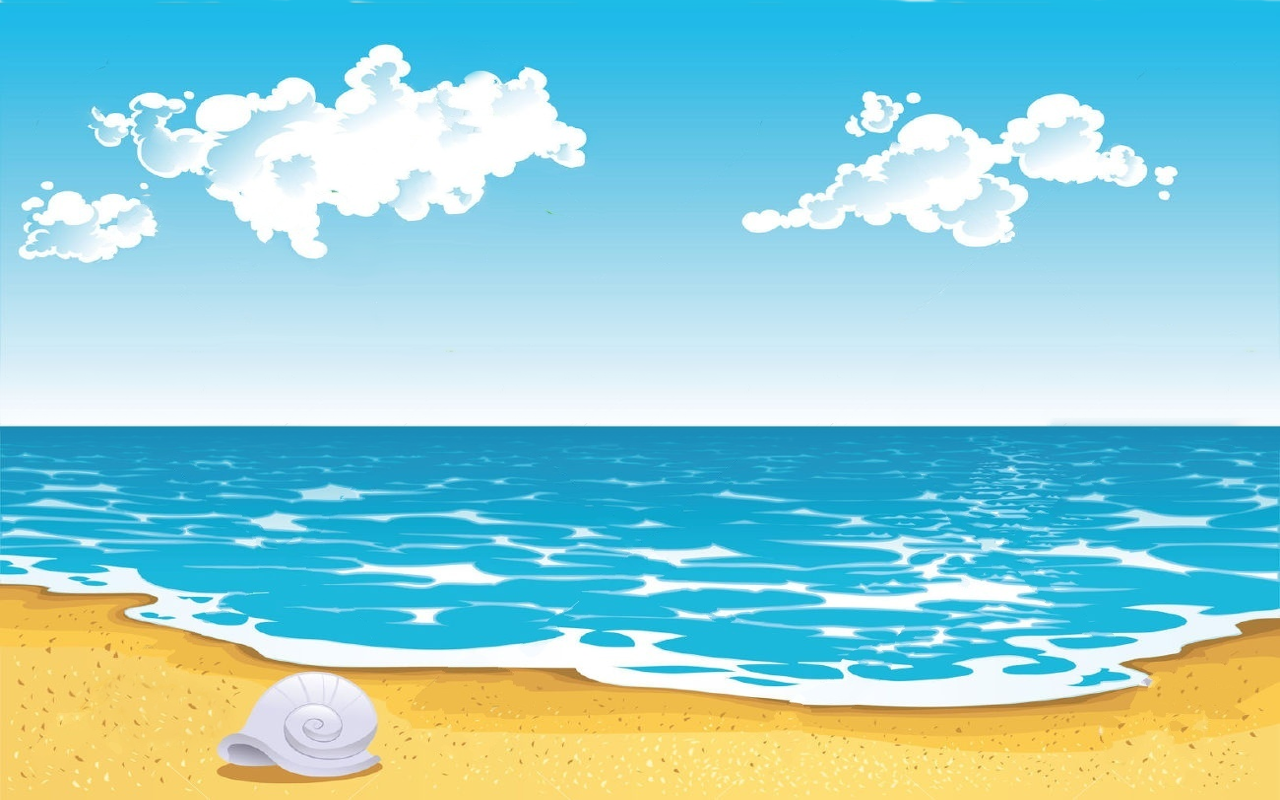
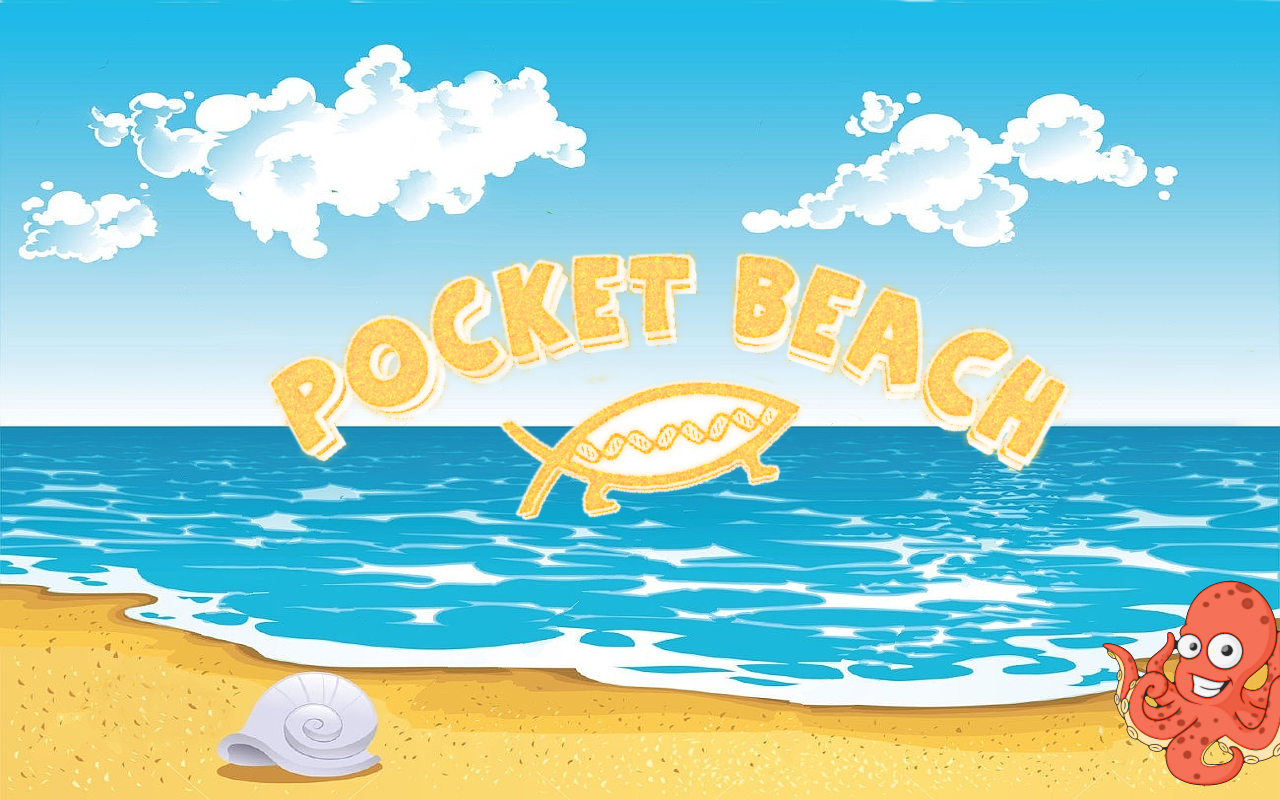
splash screen

Changed region(s): [[0.1875, 0.3125, 0.8438, 0.6562], [0.8438, 0.7188, 1.0, 1.0]]

diff --git a/core/src/com/pocketbeach/game/screens/MainMenuScreen.java b/core/src/com/pocketbeach/game/screens/MainMenuScreen.java
@@ -34,8 +34,7 @@ public class MainMenuScreen implements Screen {
 
         this.game.batch.begin();
         this.game.batch.draw(this.textures.get("background"), 1, 1);
-        this.game.font.draw(this.game.batch, "Welcome to PocketBeach !", 100, 150);
-        this.game.font.draw(this.game.batch, "Tap anywhere to begin !", 100, 100);
+        this.game.font.draw(this.game.batch, "Tap anywhere to begin !", 450, 100);
         this.game.batch.end();
 
         if (Gdx.input.isTouched()) {

diff --git a/core/src/com/pocketbeach/game/Experiment.java b/core/src/com/pocketbeach/game/Experiment.java
@@ -9,7 +9,7 @@ public class Experiment {
     public final int RANDOM_ACTORS_NUMBER = 5;
     public final float RANK_PROBABILITY_CONSTANT = 0.1f;
     public final boolean REVERSE_RANK = true;
-    public final int TIME_BETWEEN_GEN = 20;
+    public final int TIME_BETWEEN_GEN = 0;
     public int popIndex;
     public int currentGen;
     private GameWorld world;

diff --git a/core/src/com/pocketbeach/game/phenotypes/Vitals.java b/core/src/com/pocketbeach/game/phenotypes/Vitals.java
@@ -41,7 +41,7 @@ public class Vitals {
 
     public void update(boolean inWater) {
         float dt = Gdx.graphics.getDeltaTime();
-        this.energy -= dt * (inWater ? 0.8 : 1) * 5;
+        this.energy -= dt * (inWater ? 0.8 : 1);
         this.temperature += dt * (inWater ? -0.5 : 0.3);
         while (this.temperature < 32) {
             this.energy -= 1;

diff --git a/core/src/com/pocketbeach/game/GameWorld.java b/core/src/com/pocketbeach/game/GameWorld.java
@@ -157,7 +157,7 @@ public class GameWorld implements ContactListener {
             this.actorShader.draw(actor);
         this.actorShader.end();
         this.seaShader.render();
-        this.debugRenderer.render(this.physics, this.screen.camera.combined);
+        //this.debugRenderer.render(this.physics, this.screen.camera.combined);
     }
 
     @Override

diff --git a/core/src/com/pocketbeach/game/PocketBeach.java b/core/src/com/pocketbeach/game/PocketBeach.java
@@ -12,6 +12,7 @@ public class PocketBeach extends Game {
 	public void create() {
 		this.batch = new SpriteBatch();
 		this.font = new BitmapFont();
+		this.font.getData().setScale(3, 3);
 		this.setScreen(new MainMenuScreen(this));
 	}
 
